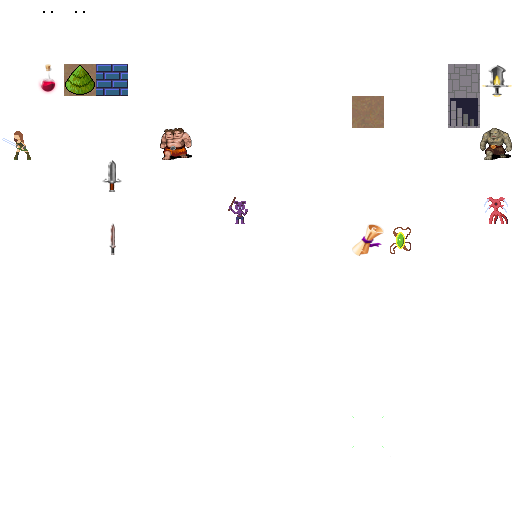
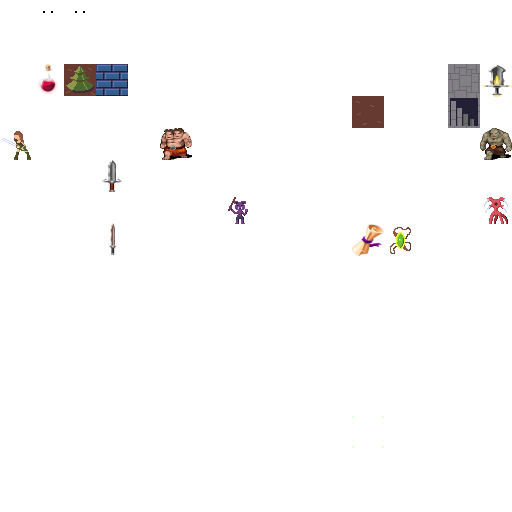
Added MapTheme trait and dungeon and forest implemenations

Changed region(s): [[0.6875, 0.1875, 0.75, 0.25], [0.125, 0.125, 0.1875, 0.1875]]

diff --git a/src/map_builder/mod.rs b/src/map_builder/mod.rs
@@ -2,6 +2,7 @@ mod automata;
 mod drunkard;
 mod prefab;
 mod rooms;
+mod themes;
 
 use crate::prelude::*;
 use rooms::RoomsArchitect;
@@ -15,12 +16,17 @@ trait MapArchitect {
 	fn init(&mut self, rng: &mut RandomNumberGenerator) -> MapBuilder;
 }
 
+pub trait MapTheme : Sync + Send {
+	fn tile_to_render(&self, tile_type: TileType) -> FontCharType;
+}
+
 pub struct MapBuilder {
 	pub map : Map,
 	pub rooms : Vec<Rect>,
 	pub monster_spawns : Vec<Point>,
 	pub player_start : Point,
 	pub amulet_start : Point,
+	pub theme: Box<dyn MapTheme>,
 }
 
 impl MapBuilder {
@@ -32,6 +38,11 @@ impl MapBuilder {
 		};
 		let mut mb = architect.init(rng);
 		prefab::apply_prefab(&mut mb, rng); // Add a FORTRESS
+
+		mb.theme = match rng.range(0, 2) {
+			0 => themes::DungeonTheme::new(),
+			_ => themes::ForestTheme::new(),
+		};
 		mb
 	}
 

diff --git a/src/map_builder/themes.rs b/src/map_builder/themes.rs
@@ -1,0 +1,36 @@
+use crate::prelude::*;
+use super::MapTheme;
+
+pub struct DungeonTheme {}
+
+impl DungeonTheme {
+	pub fn new() -> Box<dyn MapTheme> {
+		Box::new(Self{})
+	}
+}
+
+impl MapTheme for DungeonTheme {
+	fn tile_to_render(&self, tile_type: TileType) -> FontCharType {
+		match tile_type {
+			TileType::Floor => to_cp437('.'),
+			TileType::Wall => to_cp437('#'),
+		}
+	}
+}
+
+pub struct ForestTheme {}
+
+impl ForestTheme {
+	pub fn new() -> Box<dyn MapTheme> {
+		Box::new(Self{})
+	}
+}
+
+impl MapTheme for ForestTheme {
+	fn tile_to_render(&self, tile_type: TileType) -> FontCharType {
+		match tile_type {
+			TileType::Floor => to_cp437(';'),
+			TileType::Wall => to_cp437('"'),
+		}
+	}
+}

diff --git a/src/main.rs b/src/main.rs
@@ -48,6 +48,7 @@ impl State {
         resources.insert(map_builder.map);
         resources.insert(Camera::new(map_builder.player_start));
         resources.insert(TurnState::AwaitingInput);
+        resources.insert(map_builder.theme);
 
         spawn_player(&mut world, map_builder.player_start);
         spawn_amulet_of_yala(&mut world, map_builder.amulet_start);
@@ -77,6 +78,7 @@ impl State {
         self.resources.insert(map_builder.map);
         self.resources.insert(Camera::new(map_builder.player_start));
         self.resources.insert(TurnState::AwaitingInput);
+        self.resources.insert(map_builder.theme);
     }
 
     fn game_over(&mut self, ctx: &mut BTerm) {

diff --git a/src/systems/map_render.rs b/src/systems/map_render.rs
@@ -9,7 +9,8 @@ const SORT_ORDER : usize = 0;
 pub fn map_render(
 	sub_world: &SubWorld,
 	#[resource] map: &Map,
-	#[resource] camera: &Camera
+	#[resource] camera: &Camera,
+	#[resource] theme: &Box<dyn MapTheme>
 ) {
 	let mut fov = <&FieldOfView>::query().filter(component::<Player>());
 	let player_fov = fov.iter(sub_world).nth(0).unwrap();
@@ -31,10 +32,7 @@ pub fn map_render(
 				};
 
 				let idx = get_map_idx(x, y);
-				let glyph = match map.tiles[idx] {
-					TileType::Floor => to_cp437('.'),
-					TileType::Wall => to_cp437('#'),
-				};
+				let glyph = theme.tile_to_render(map.tiles[idx]);
 				draw_batch.set(
 					pt - offset,
 					ColorPair::new(tint, BLACK),

diff --git a/src/map_builder/automata.rs b/src/map_builder/automata.rs
@@ -10,7 +10,8 @@ impl MapArchitect for CellularAutomataArchitect {
 			rooms: Vec::new(),
 			monster_spawns: Vec::new(),
 			player_start: Point::zero(),
-			amulet_start: Point::zero()
+			amulet_start: Point::zero(),
+			theme: super::themes::DungeonTheme::new(),
 		};
 
 		self.generate_random_noise_map(rng, &mut mb.map);

diff --git a/src/map_builder/drunkard.rs b/src/map_builder/drunkard.rs
@@ -13,7 +13,8 @@ impl MapArchitect for DrunkardsWalkArchitect {
 			rooms: Vec::new(),
 			monster_spawns: Vec::new(),
 			player_start: Point::zero(),
-			amulet_start: Point::zero()
+			amulet_start: Point::zero(),
+			theme: super::themes::DungeonTheme::new(),
 		};
 
 		mb.fill(TileType::Wall);

diff --git a/src/map_builder/rooms.rs b/src/map_builder/rooms.rs
@@ -11,6 +11,7 @@ impl MapArchitect for RoomsArchitect {
 			monster_spawns: Vec::new(),
 			player_start: Point::zero(),
 			amulet_start: Point::zero(),
+			theme: super::themes::DungeonTheme::new(),
 		};
 		mb.fill(TileType::Wall);
 		mb.build_random_rooms(rng);
